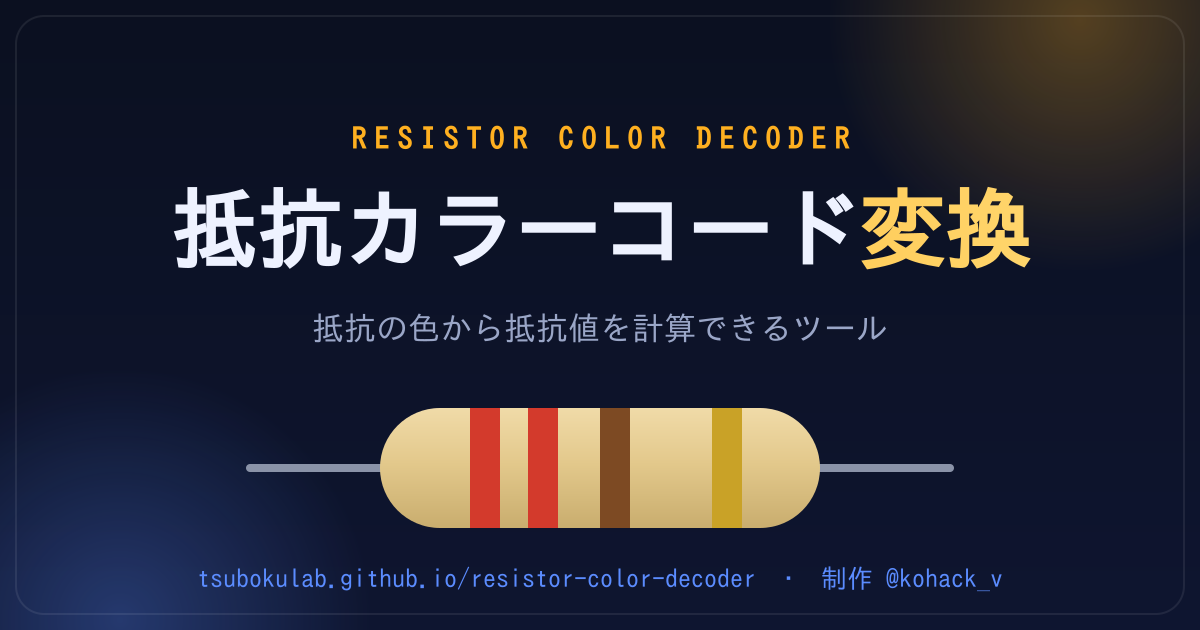
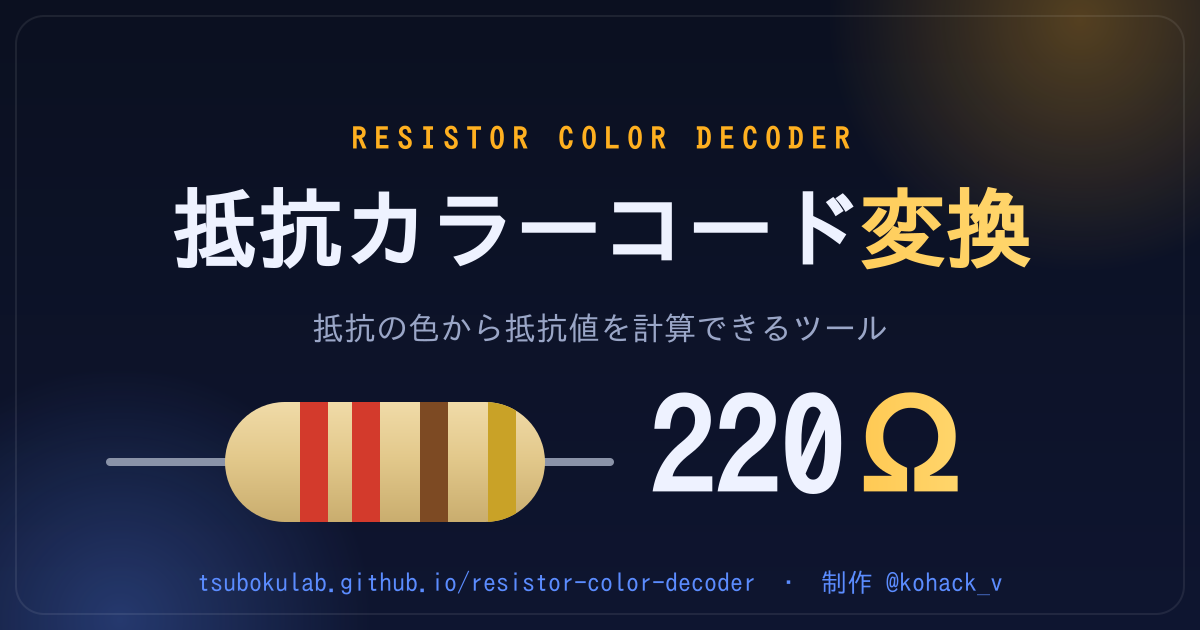
chore: 名称を「変換」に統一・シェアのハッシュタグ削除・OG画像に220Ω追加
- READMEタイトルを「抵抗カラーコード変換」に統一
- Xシェアの本文を新名称に、ハッシュタグ指定を削除
- OGPサムネイルに抵抗値「220 Ω」を大きく追加し、抵抗を左寄せにレイアウト調整

Claude-Session: https://claude.ai/code/session_01VXYbrSsU2RwyAGLoVJQirV

Changed region(s): [[0.0925, 0.6032, 0.8017, 0.8444], [0.1542, 0.9048, 0.6475, 0.9349], [0.6783, 0.9048, 0.8325, 0.9349]]

diff --git a/script.js b/script.js
@@ -439,12 +439,11 @@ function setupShare() {
   const btn = $("share-x");
   if (!btn) return;
   const url = location.href.split("#")[0];
-  const text = "抵抗カラーコード デコーダー｜バンドをクリックするだけで抵抗値を計算できるツール";
+  const text = "抵抗カラーコード変換｜バンドをクリックするだけで抵抗値を計算できるツール";
   const intent =
     "https://twitter.com/intent/tweet?" +
     "text=" + encodeURIComponent(text) +
-    "&url=" + encodeURIComponent(url) +
-    "&hashtags=" + encodeURIComponent("電子工作,抵抗");
+    "&url=" + encodeURIComponent(url);
   btn.setAttribute("href", intent);
 }
 

diff --git a/README.md b/README.md
@@ -1,4 +1,4 @@
-# 抵抗カラーコード デコーダー
+# 抵抗カラーコード変換
 
 抵抗のカラーバンドを **クリックして色を変えるだけ** で抵抗値が計算できる、直感的でデザイン性の高い Web ツールです。
 おまけに **LED の電流制限抵抗** も計算できます。  